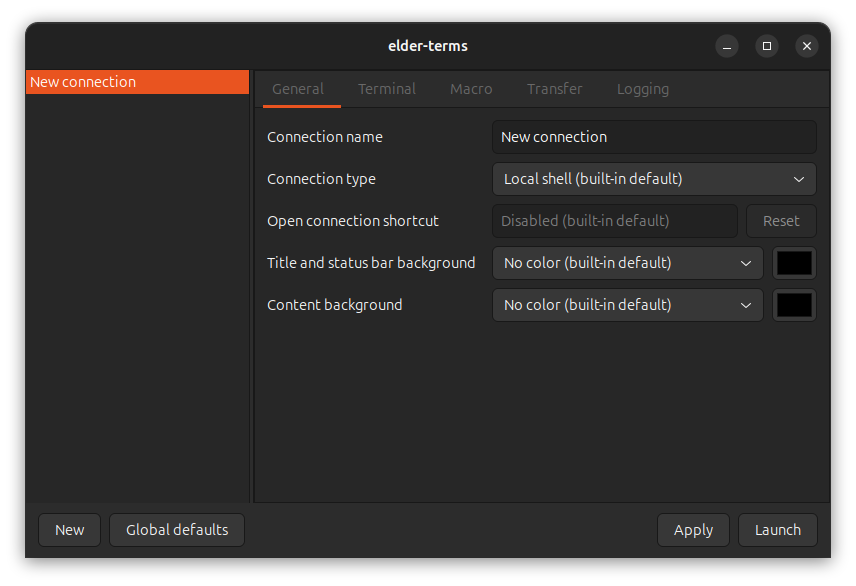
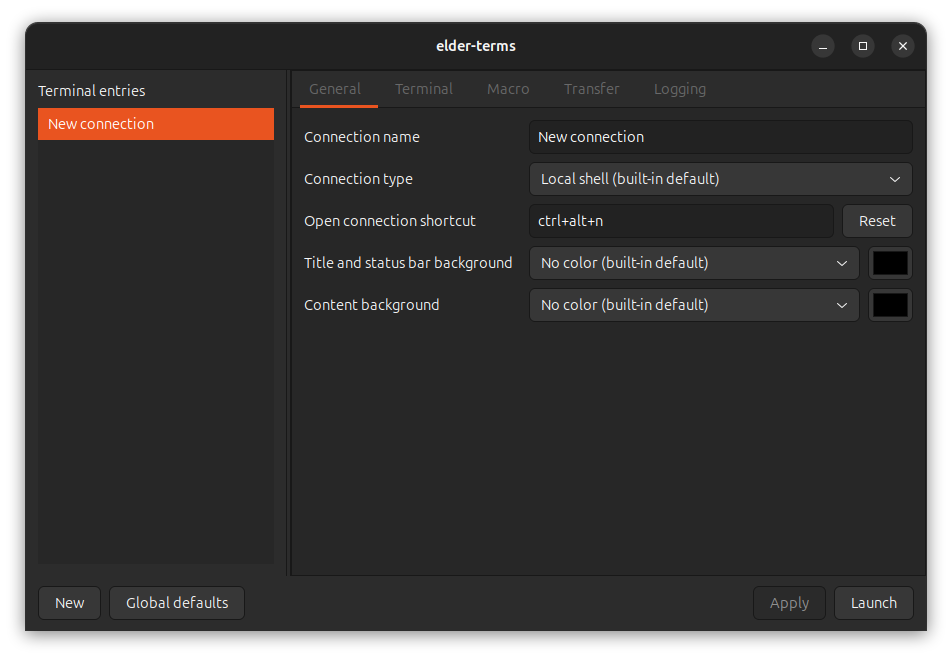
doc: updated readme

diff --git a/README_ja.md b/README_ja.md
@@ -16,7 +16,11 @@
 シリアル接続やTELNET、そしてパソコン通信。すべてが懐かしく、すべてが満たされ、そして全てがコントローラブルだったあの頃。
 現代的な機能も追加して、蘇るターミナル生活。
 
-![Launcher](./images/launcher.png)
+![Terminal](./images/terminal.png)
+
+![Launcher](./images/launcher-settings.png)
+
+![Complex terminal](./images/complex-terminal.png)
 
 ![Colored terminal](./images/colored-terminal.png)
 
@@ -40,11 +44,11 @@
 - 接続毎にウインドウのエクステリアカラーやターミナルの背景色をカスタマイズ出来ます。
 - ホットキー一発で、指定された接続を起動出来ます。
   まずは、ローカルターミナルをホットキーで起動できるようにすることから始めて下さい。
-  全てがelder-termsに置き換わるのも、時間の問題でしょう。
+  全てがelder-termsに置き換わるのも、時間の問題かもしれません。
 - ランチャーを自動起動させたり、システムトレイに常駐させることが出来ます。
 - 受信文字列を正規表現で監視して、自動的に文字列を送信したり、指定されたコマンドを実行できるルールを指定出来ます。
 - ログをファイルに記録できます。接続先や日時によるディレクトリの分離によって、ログの整理が捗ります。
-- 多国語表示に対応しています (ar, en, es, fr, hi, ja, ko, pt, ru, zh)
+- 多国語表示に対応しています (英語、アラビア語、スペイン語、フランス語、ヒンディー語、日本語、韓国語、ポルトガル語、ロシア語、簡体字中国語)
 
 ## 環境
 
@@ -68,23 +72,42 @@ elder-terms
 
 ---
 
-## 使い方
+## 基本的な使い方
 
 まずは、ローカルターミナルの接続エントリを作りましょう。
 これは、`bash` などのシェルを起動するターミナル、つまり普段あなたが目にしているターミナルとほぼ同じものです。
-起動すれば、あなたのユーザーに紐付けられているシェルが起動します。
+
+![Local terminal](./images/launcher.png)
 
 作り方は簡単です。ランチャー下部の "New" ボタンをクリックして、名前を "New connection" から適当な名前に変更して、 "Save" をクリックするだけです。これで、ローカルターミナルが起動するエントリが出来ました。
 あとは、ランチャーのリストに表示されているエントリをダブルクリックすれば起動できます。ほら:
+
+![Local terminal](./images/local-terminal.png)
 
 ここで、ターミナル上部のギアアイコンをクリックすると、このターミナルの様々な設定を変更することが出来ます。
 "Apply" ボタンをクリックすれば、今起動しているターミナルにのみ、変更が適用されます。
 "Save" ボタンをクリックすると、その設定を記憶するので、次回ターミナル起動時に反映されるようになります。
 
+![Settings (Terminal)](./images/settings-terminal.png)
+
 "Apply" ボタンを使って、色々な設定を変更してみると良いでしょう。
 失敗しても、ターミナルウインドウを閉じれば捨てることが出来ます。
 
-大半は、触ってみればわかる設定項目ですが、いくつかは説明が必要でしょう。
+大半は、触ってみればわかる設定項目ですが、いくつかは説明が必要でしょう。これについては次の章以降で示します。
+
+後は、`Ctrl`+`+` キーでフォントの拡大、 `Ctrl`+`-` キーでフォントの縮小、同じことが `Ctrl` キーを押しながらのマウスホイール操作で行えることを覚えておいて損はありません。
+
+![Settings (Terminal)](./images/font-size.png)
+
+ターミナルウインドウをどのように配置するのかは、ウインドウマネージャやWaylandコンポジターにまかせてあります。つまり、あなたのウインドウシステムの環境に従って、 `Super` キーなどのキーバインドを活用して下さい。
+
+現代に於いては、IoT開発、つまりはArduinoのようなシリアルデバイスを使ったデバッグやログ採取を行う機会が多いでしょう。elder-termsはそのような環境でも無類の力を発揮します。
+
+ああ、わかっていますとも。アナログモデムの事も忘れていません。そのノスタルジーは、ターミナル下部のインジケータが補ってくれます:
+
+![Indicator](./images/indicator.png)
+
+点滅がやけに規則正しくないか、だって？ もちろん。これは SONY NEWS ワークステーションのオマージュですよ。
 
 ---
 
@@ -92,9 +115,9 @@ elder-terms
 
 elder-termsの設定値には、次の三種類があります。後に挙げる設定ほど優先されます。
 
-1. **組み込み既定値**: elder-terms自体が持つ既定値です。接続種別などに応じて決まります。
-2. **INIファイルに保存された設定**: 「グローバル既定値」の `global.ini` が組み込み既定値を上書きし、各接続のINIファイルが更にそれを上書きします。次回の起動にも引き継がれます。
-3. **起動セッションの設定**: ランチャーで保存していない変更を使って接続を起動した場合、その変更は一時的な起動用プロファイルとして接続先のウインドウへ渡されます。また、起動後の設定ダイアログで「適用」した変更も、現在のセッションだけに反映されます。これらは「保存」しない限りINIファイルへ記録されず、セッションの終了時に失われます。
+1. 組み込み既定値: elder-terms自体が持つ既定値です。接続種別などに応じて決まります。
+2. INIファイルに保存された設定: 「グローバル既定値」の `global.ini` が組み込み既定値を上書きし、各接続のINIファイルが更にそれを上書きします。次回の起動にも引き継がれます。
+3. 起動セッションの設定: ランチャーで保存していない変更を使って接続を起動した場合、その変更は一時的な起動用プロファイルとして接続先のウインドウへ渡されます。また、起動後の設定ダイアログで「適用」した変更も、現在のセッションだけに反映されます。これらは「保存」しない限りINIファイルへ記録されず、セッションの終了時に失われます。
 
 設定ダイアログでは、継承している値に `（組み込み既定値）` または `（グローバル既定値）` と出所が表示されます。テキスト入力欄では既定値が薄いプレースホルダーとして表示され、選択欄では既定値の選択肢に出所が併記されます。
 括弧内の出所が付かない通常の値は、接続のINIファイルまたは現在の起動セッションで明示的に指定された値です。両者は値の表示だけでは区別されません。「保存」は明示値を接続のINIファイルへ記録し、「適用」は現在のセッションだけに反映します。
@@ -104,9 +127,9 @@ elder-termsの設定値には、次の三種類があります。後に挙げる
 
 シリアル接続の「デバイス識別方式」で、次の3種類からデバイスを識別する方法を選択出来ます。
 
-- **安定デバイスID**: `/dev/serial/by-id` に作られるリンクを使用します。同じUSBシリアルデバイスを別のUSBポートへ挿し替えても追跡できるため、通常は組み込み既定値のこの方式を使用して下さい。
-- **物理USBポート**: `/dev/serial/by-path` に作られるリンクを使用します。USBシリアルデバイス個体ではなく、常に同じ物理ポートに挿されたデバイスへ接続したい場合に使用します。
-- **デバイスパス**: `/dev/ttyUSB0` や `/dev/ttyACM0` などの現在のデバイスノードを使用します。抜き挿しの後にノード番号が変わる可能性があります。
+- 安定デバイスID: `/dev/serial/by-id` に作られるリンクを使用します。同じUSBシリアルデバイスを別のUSBポートへ挿し替えても追跡できるため、通常は組み込み既定値のこの方式を使用して下さい。
+- 物理USBポート: `/dev/serial/by-path` に作られるリンクを使用します。USBシリアルデバイス個体ではなく、常に同じ物理ポートに挿されたデバイスへ接続したい場合に使用します。
+- デバイスパス: `/dev/ttyUSB0` や `/dev/ttyACM0` などの現在のデバイスノードを使用します。抜き挿しの後にノード番号が変わる可能性があります。
 
 「デバイス」はパスの直接入力欄ではなく、選択した識別方式で現在利用出来るデバイスの一覧です。一覧は抜き挿しを検知して自動的に更新されます。選択中のデバイスについて、「安定ID」「USBシリアル番号」「現在のデバイスノード」も表示されます。
 
@@ -148,7 +171,7 @@ carrier_detect=ignore
 接続種別ごとの組み込み既定値は次の通りです。
 
 | 接続種別 | 文字エンコーディング | Backspaceコード | カーソルキーモード |
-| --- | --- | --- | --- |
+| :--- | :--- | :--- | :--- |
 | ローカルターミナル | UTF-8 | DEL | 通常 |
 | TELNET | UTF-8 | BS | 通常 |
 | シリアル | UTF-8 | BS | ADM3 |
@@ -158,7 +181,7 @@ carrier_detect=ignore
 
 文字コードは iconv の定義名を受け入れますが、文字コード名には似て異なる定義がいくつか存在することに注意してください。
 
-例えば、日本語圏において、BBSシリアル通信でよく使われる「シフトJIS」は、iconv の定義名で `shift_jis` というわかりやすい対応名がありますが、実際には慣例的に NEC PC-9800 シリーズで使われている、拡張された `cp932` がベターです。
+例えば、日本語圏において、BBSシリアル通信でよく使われる「シフトJIS」は、iconv の定義名で `SHIFT_JIS` というわかりやすい対応名がありますが、実際には慣例的に NEC PC-9800 シリーズで使われている、拡張された `CP932` がベターです。
 
 異なる文字コードを使用した場合、拡張されたり変更されている文字を受信すると、文字化けの原因となります。
 
@@ -181,11 +204,11 @@ X11セッションはこの制限の対象外です。また、GNOME以外のWay
 
 ターミナル種別は、接続先にelder-termsがエミュレートする端末の種類を伝えるための名前です。
 TELNETではターミナル種別のネゴシエーション時に、SSHでは仮想端末の確保時に、この値が接続先へ自動的に通知されます。
-接続先のシェルや `curses` などのアプリケーションは、この値に対応する `terminfo` を参照して、色、カーソル移動、ファンクションキーなどの制御シーケンスを選択します。
+接続先のシェルや `curses` を使用するアプリケーションは、この値に対応する `terminfo` を参照して、色、カーソル移動、ファンクションキーなどの制御シーケンスを選択します。
 通常はデフォルトのままで構いませんが、接続先がそのターミナル種別に対応していない場合は、接続先にインストールされている `xterm` などの値を指定して下さい。
 
 TELNETとSSHの通常のデフォルトは `xterm-256color` です。
-ただし、「コンテンツの背景」に色を指定し、ターミナル種別を明示的に指定していない場合は、`libvte` で指定した背景色を正しく扱うため、デフォルトが自動的に `xterm` に変わります。
+ただし、「コンテンツの背景」に色を指定し、ターミナル種別を明示的に指定していない場合は、デフォルトが自動的に `xterm` に変わります。これは、`xterm-256color` を使用すると、背景色が正しく描画されない場合があるからです。
 ターミナル種別を明示的に指定した場合は、背景色を変更してもその値が優先されます。
 
 ## 表示言語の設定

diff --git a/README.md b/README.md
@@ -2,7 +2,7 @@
 
 '90s, come back in this time.
 
-![elder-terms](./images/elder-terms-120.png)
+![elder-terms](./images/elder-terms-128.png)
 
 [![Project Status: Active – The project has reached a stable, usable state and is being actively developed.](https://www.repostatus.org/badges/latest/active.svg)](https://www.repostatus.org/#active)
 [![License: MIT](https://img.shields.io/badge/License-MIT-yellow.svg)](https://opensource.org/licenses/MIT)
@@ -19,51 +19,4 @@
 elder-terms is a GTK terminal for serial, TELNET, local shell, SSH, and SFTP
 connections, inspired by personal computing in the 1990s.
 
-## Serial Device Selection
-
-The Serial settings page discovers available devices and lets you select one
-from a list instead of typing a device path. It supports three identification
-modes:
-
-- **Stable device identity** (default) uses `/dev/serial/by-id` to follow the
-  same USB serial device when it is moved to another USB port.
-- **Physical USB port** uses `/dev/serial/by-path` to follow whichever device
-  is attached to the same physical port.
-- **Device path** uses the current node, such as `/dev/ttyUSB0` or
-  `/dev/ttyACM0`.
-
-The list refreshes when devices are attached or detached and shows the stable
-ID, USB serial number, and current device node. A disconnected session keeps
-its selected identity and reconnects when the target reappears. In stable-ID
-mode, the remembered USB serial number can recover a renamed `by-id` link when
-it identifies exactly one device; ambiguous matches are rejected.
-
-The corresponding INI settings are:
-
-```ini
-[serial]
-device_match_mode=by-id
-device=/dev/serial/by-id/usb-Example_Serial_Device_1234-if00
-device_usb_serial=1234
-```
-
-`device_match_mode` accepts `path`, `by-id`, or `by-path` and defaults to
-`by-id`. Existing configurations that only contain a direct `device` path
-remain usable.
-
-## Serial Connection Monitoring
-
-The **Connection monitoring signal** setting can watch DCD, CTS, or DSR for a
-high-to-low transition. Select **Ignore (do not monitor)** when the serial
-adapter does not provide a usable modem-line signal or its driver does not
-support modem-line polling. In this mode, modem-line state does not end the
-session or trigger **Close window when session ends**, and the serial session
-remains available for data transfer. A real device loss or read/write failure
-is still handled as a disconnection.
-
-The setting is stored as follows:
-
-```ini
-[serial]
-carrier_detect=ignore
-```
+TODO:
